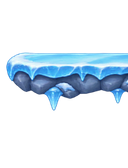
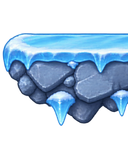
Finalize corrected ice platform visual

diff --git a/js/renderer.js b/js/renderer.js
@@ -47,19 +47,19 @@
     left: Object.freeze({
       path: "assets/platforms/ice_platform_left.png",
       canvas: Object.freeze({w: 128, h: 168}),
-      source: Object.freeze({x: 4, y: 50, w: 124, h: 63}),
+      source: Object.freeze({x: 0, y: 31, w: 128, h: 103}),
       drawWidth: 24
     }),
     middle: Object.freeze({
       path: "assets/platforms/ice_platform_middle.png",
       canvas: Object.freeze({w: 268, h: 168}),
-      source: Object.freeze({x: 0, y: 50, w: 268, h: 63}),
+      source: Object.freeze({x: 0, y: 31, w: 268, h: 103}),
       drawWidth: 52
     }),
     right: Object.freeze({
       path: "assets/platforms/ice_platform_right.png",
       canvas: Object.freeze({w: 128, h: 168}),
-      source: Object.freeze({x: 0, y: 50, w: 124, h: 63}),
+      source: Object.freeze({x: 0, y: 31, w: 128, h: 103}),
       drawWidth: 24
     })
   });
